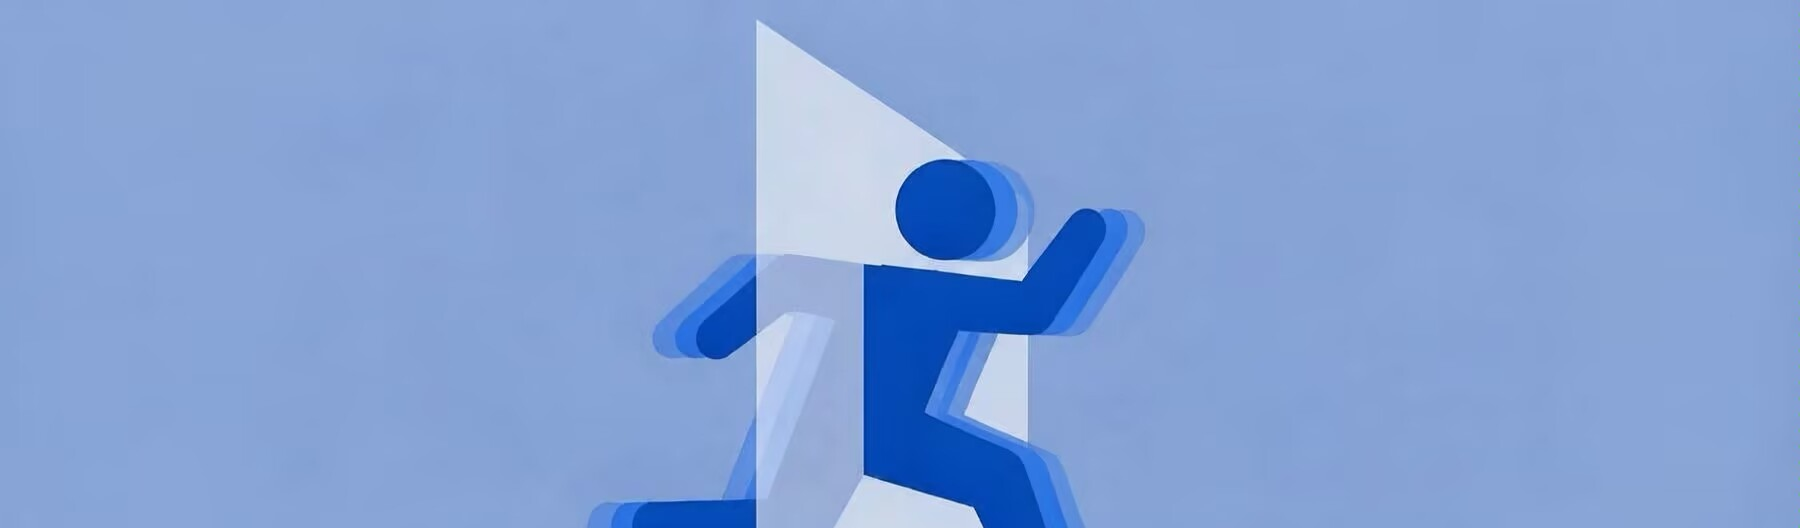
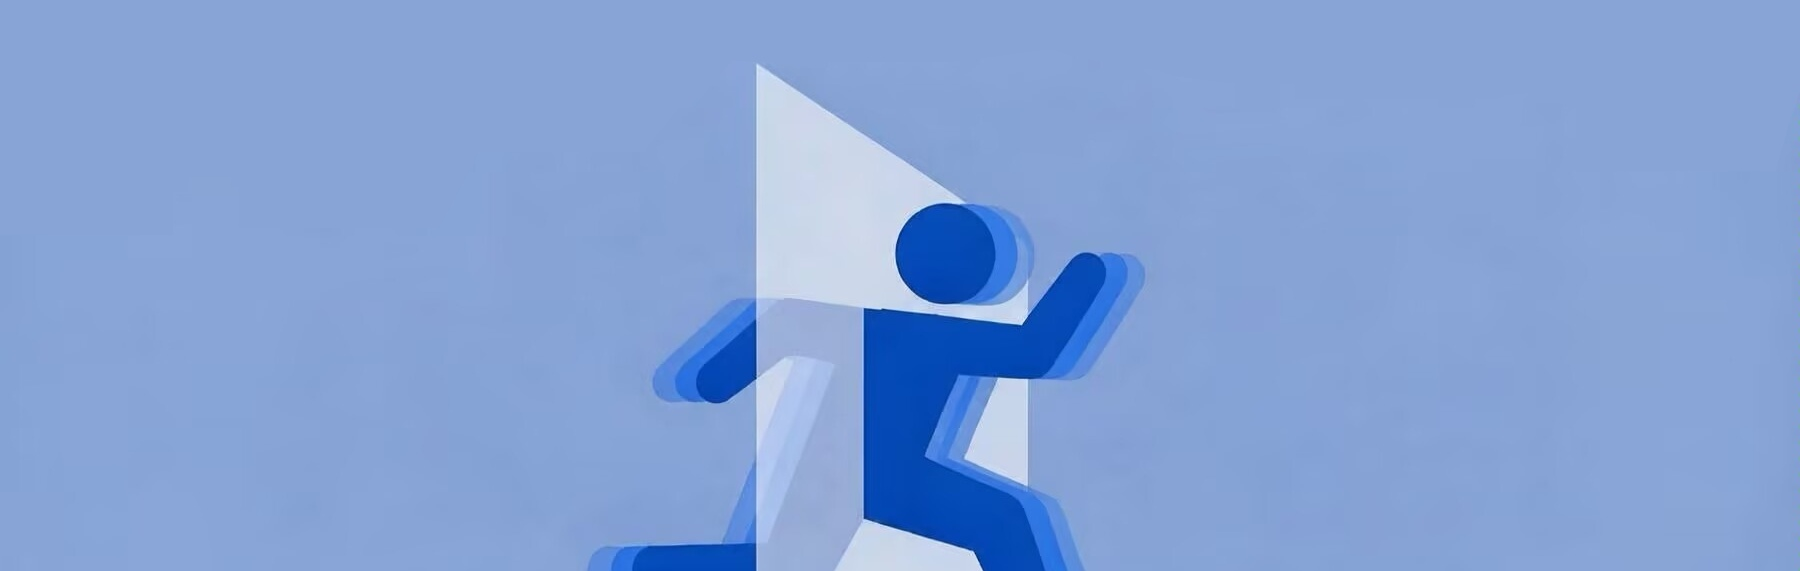
Add files via upload

Changed region(s): [[0.3422, 0.0303, 0.6533, 0.8788], [0.4667, 0.8788, 0.56, 0.9697], [0.3422, 0.9394, 0.4356, 0.9697]]

diff --git a/index.html b/index.html
@@ -459,7 +459,7 @@
     }
     .sufan-modal .modal-box .sufan-content .thanks .name-list li:nth-child(1)::before { background-image: url('0.jpg'); }
     .sufan-modal .modal-box .sufan-content .thanks .name-list li:nth-child(2)::before { background-image: url('1.webp'); }
-    .sufan-modal .modal-box .sufan-content .thanks .name-list li:nth-child(3)::before { background-image: url('2.webp'); }
+    .sufan-modal .modal-box .sufan-content .thanks .name-list li:nth-child(3)::before { background-image: url('2.jpg'); }
     .sufan-modal .modal-box .sufan-content .thanks .name-list li:nth-child(4)::before { background-image: url('3.webp'); }
     .sufan-modal .modal-box .sufan-content .thanks .name-list li:nth-child(5)::before { background-image: url('4.jpg'); }
     .sufan-modal .modal-box .sufan-content .thanks .name-list li:nth-child(6)::before { background-image: url('5.jpg'); }
